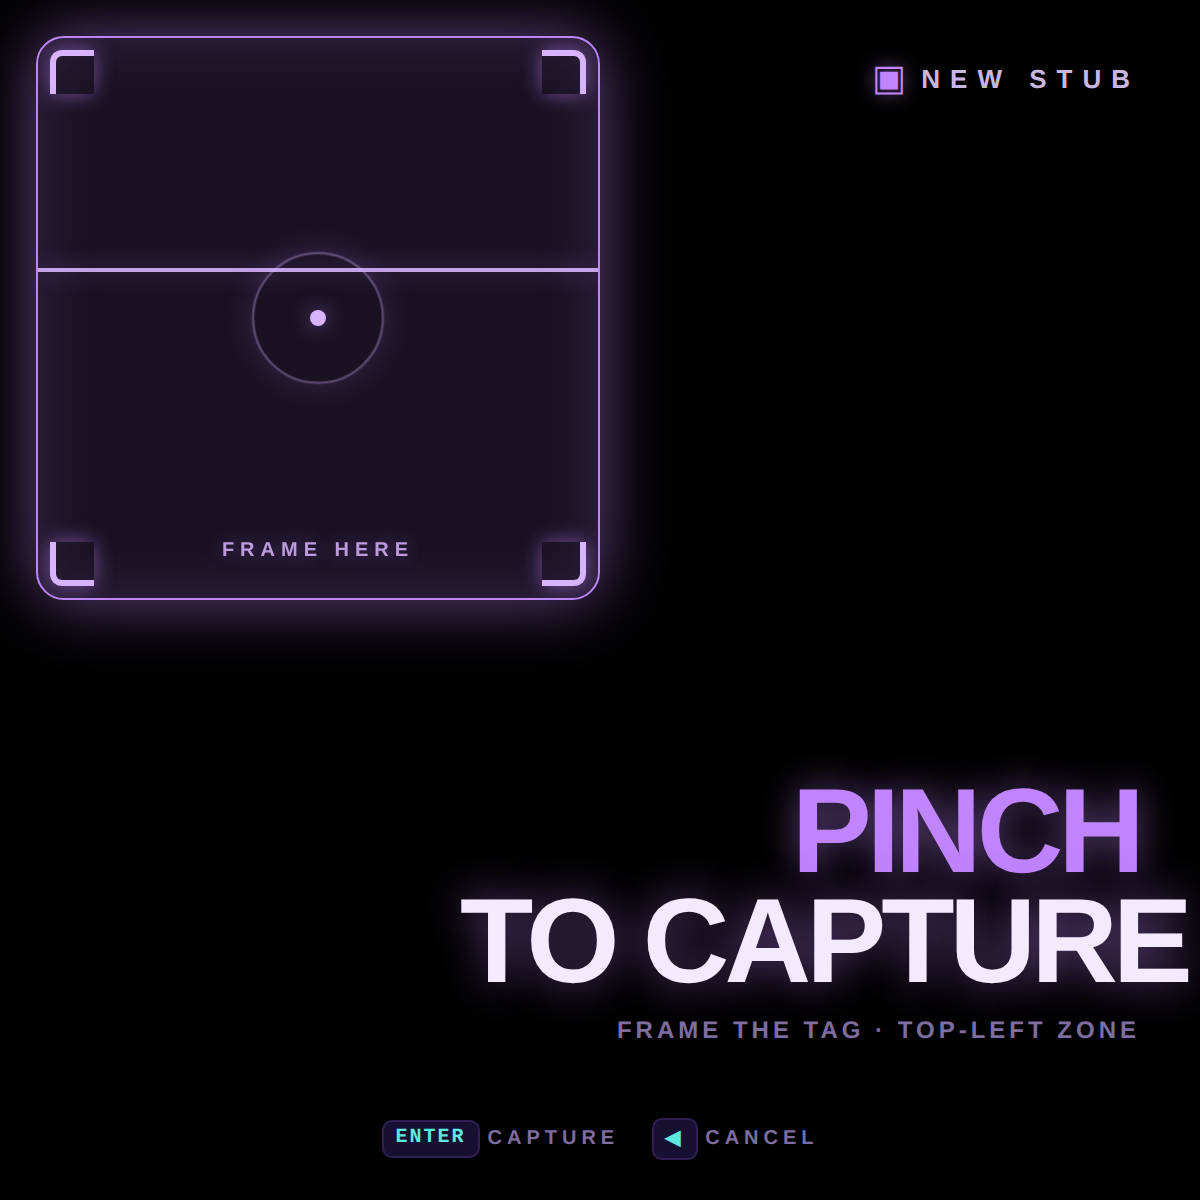
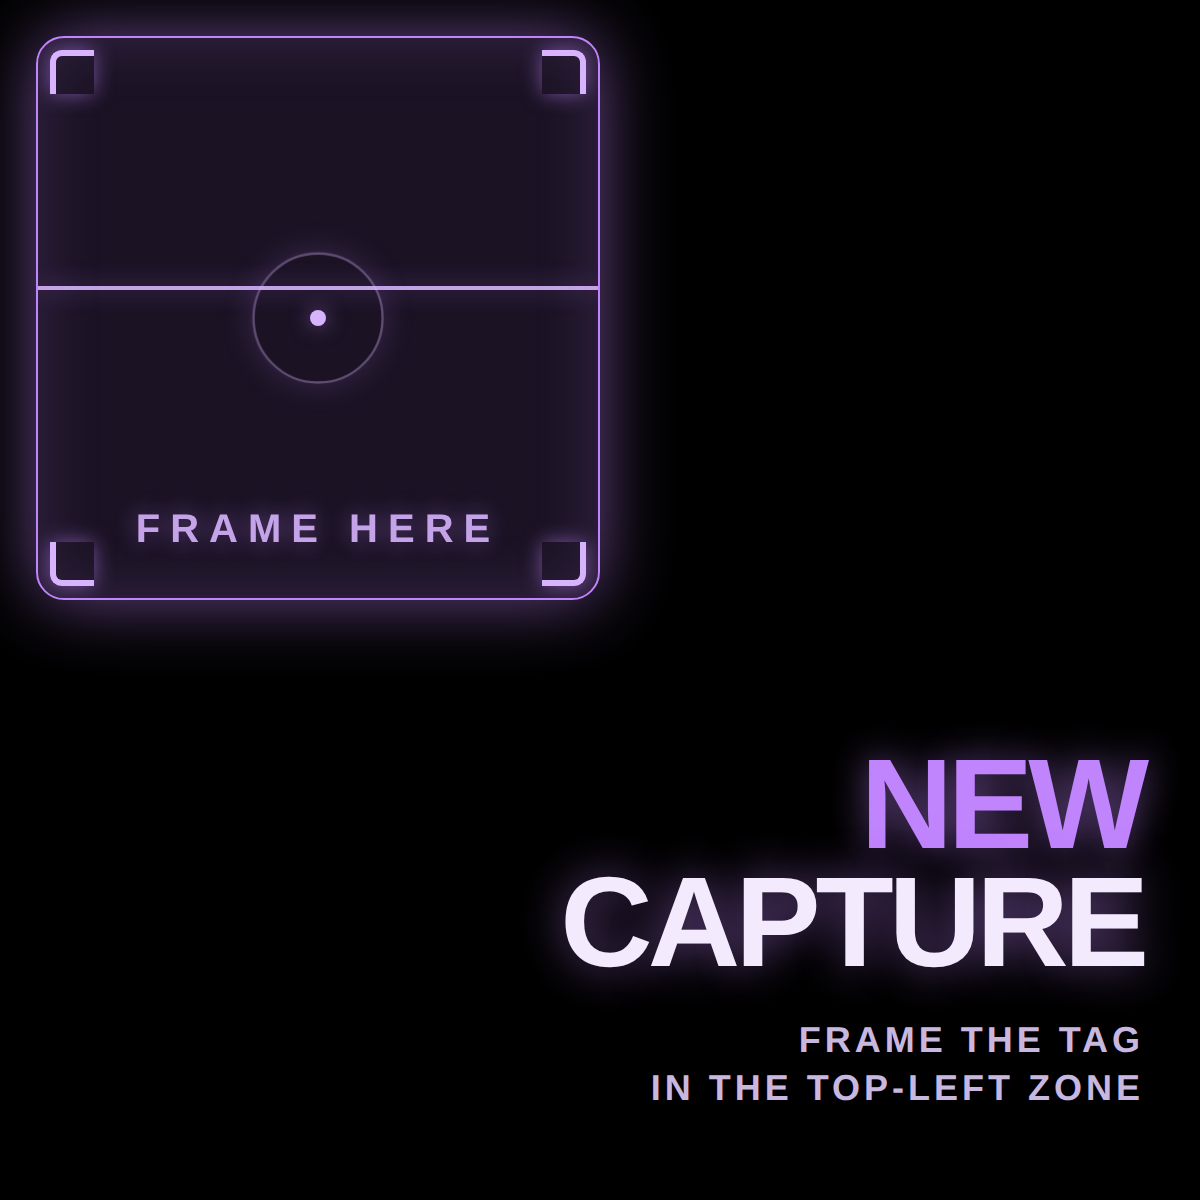
stub: simplify capture screen, land here on open
- Drop the NEW STUB tag (top-right) and the ENTER/CANCEL hint bar
- Rename the big call-out from PINCH TO CAPTURE → NEW CAPTURE
- Bump FRAME HERE label and the subtitle to readable sizes
- Subtitle wraps to two short lines so it fits the lens
- App now loads onto the capture screen by default; ◀ still reaches the saved-stubs carousel

diff --git a/stub/styles.css b/stub/styles.css
@@ -529,14 +529,14 @@ button {
   position: absolute;
   left: 0;
   right: 0;
-  bottom: 18px;
+  bottom: 22px;
   text-align: center;
-  font-size: 10px;
+  font-size: 20px;
   font-weight: 800;
-  letter-spacing: 3px;
+  letter-spacing: 5px;
   color: var(--purple-hi);
-  text-shadow: 0 0 10px var(--purple-glow);
-  opacity: 0.85;
+  text-shadow: 0 0 12px var(--purple-glow);
+  opacity: 0.9;
 }
 .cz-scan-line {
   position: absolute;
@@ -555,38 +555,17 @@ button {
   100% { top: 100%; opacity: 0.0; }
 }
 
-/* Top-right header for the capture screen */
-.cap-head {
-  position: absolute;
-  top: 28px;
-  right: 30px;
-  display: flex;
-  align-items: center;
-  gap: 8px;
-}
-.cap-head-mark {
-  font-size: 18px;
-  color: var(--purple);
-  text-shadow: 0 0 10px var(--purple-glow);
-}
-.cap-head-text {
-  font-size: 13px;
-  font-weight: 800;
-  letter-spacing: 5px;
-  color: var(--text-2);
-}
-
-/* Big "PINCH TO CAPTURE" instruction, placed in the diagonal-opposite
+/* Big "NEW CAPTURE" instruction, placed in the diagonal-opposite
    corner from the camera zone so the eye lands on it next. */
 .cap-instruction {
   position: absolute;
-  right: 30px;
-  bottom: 78px;
+  right: 28px;
+  bottom: 44px;
   text-align: right;
   max-width: 340px;
 }
 .cap-pinch {
-  font-size: 60px;
+  font-size: 64px;
   font-weight: 800;
   line-height: 0.92;
   letter-spacing: -2.5px;
@@ -599,18 +578,12 @@ button {
   text-shadow: 0 0 18px var(--purple-glow);
 }
 .cap-sub {
-  margin-top: 10px;
-  font-size: 12px;
+  margin-top: 18px;
+  font-size: 18px;
   font-weight: 700;
   letter-spacing: 2px;
-  color: var(--text-3);
-}
-
-#capture .hint-bar {
-  position: absolute;
-  left: 0;
-  right: 0;
-  bottom: 20px;
+  line-height: 1.3;
+  color: var(--text-2);
 }
 
 /* ============================================================

diff --git a/stub/index.html b/stub/index.html
@@ -70,7 +70,8 @@
   <!-- =================================================================
        CAPTURE · the New Stub screen IS the camera screen.
        Top-left quadrant is highlighted as the camera's centered-frame
-       sweet spot — the rest of the canvas screams PINCH TO CAPTURE.
+       sweet spot — the rest of the canvas calls out NEW CAPTURE.
+       Lands on first open.
        ================================================================= -->
   <section id="capture" class="screen hidden">
 
@@ -87,19 +88,9 @@
       <div class="cz-label">FRAME&nbsp;HERE</div>
     </div>
 
-    <div class="cap-head">
-      <span class="cap-head-mark">▣</span>
-      <span class="cap-head-text">NEW&nbsp;STUB</span>
-    </div>
-
     <div class="cap-instruction">
-      <div class="cap-pinch"><em>PINCH</em><br>TO&nbsp;CAPTURE</div>
-      <div class="cap-sub">FRAME THE TAG · TOP&#8209;LEFT&nbsp;ZONE</div>
-    </div>
-
-    <div class="hint-bar">
-      <span class="hint-keys"><span class="key">ENTER</span> CAPTURE</span>
-      <span class="hint-keys"><span class="key">◀</span> CANCEL</span>
+      <div class="cap-pinch"><em>NEW</em><br>CAPTURE</div>
+      <div class="cap-sub">FRAME&nbsp;THE&nbsp;TAG<br>IN&nbsp;THE&nbsp;TOP&#8209;LEFT&nbsp;ZONE</div>
     </div>
   </section>
 

diff --git a/stub/app.js b/stub/app.js
@@ -529,7 +529,7 @@
     document.addEventListener('click', onClick);
     tickClock();
     setInterval(tickClock, 1000);
-    if (!applyUrlState()) goHome();
+    if (!applyUrlState()) startCapture();
   }
 
   if (document.readyState === 'loading') {